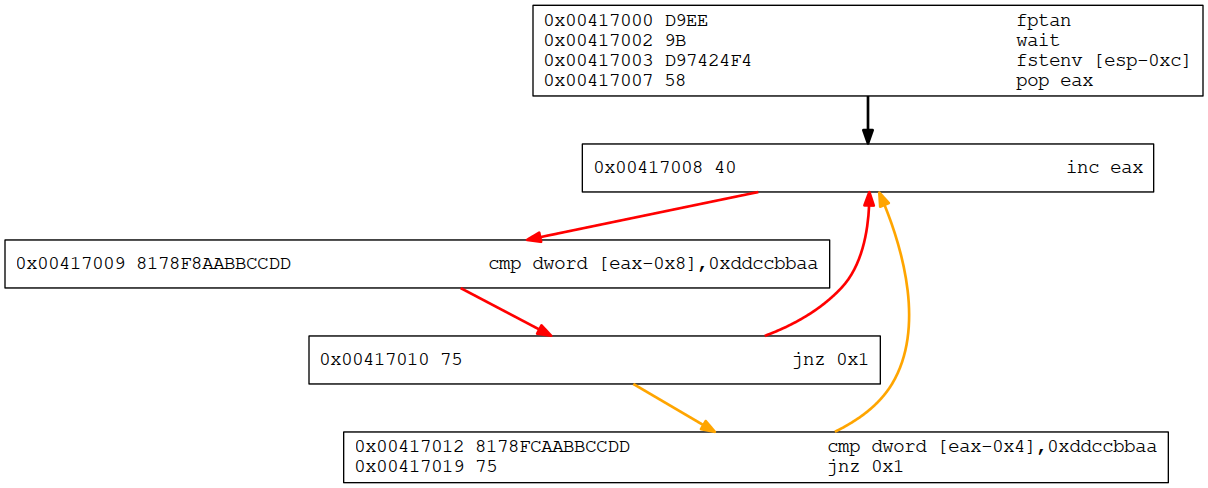
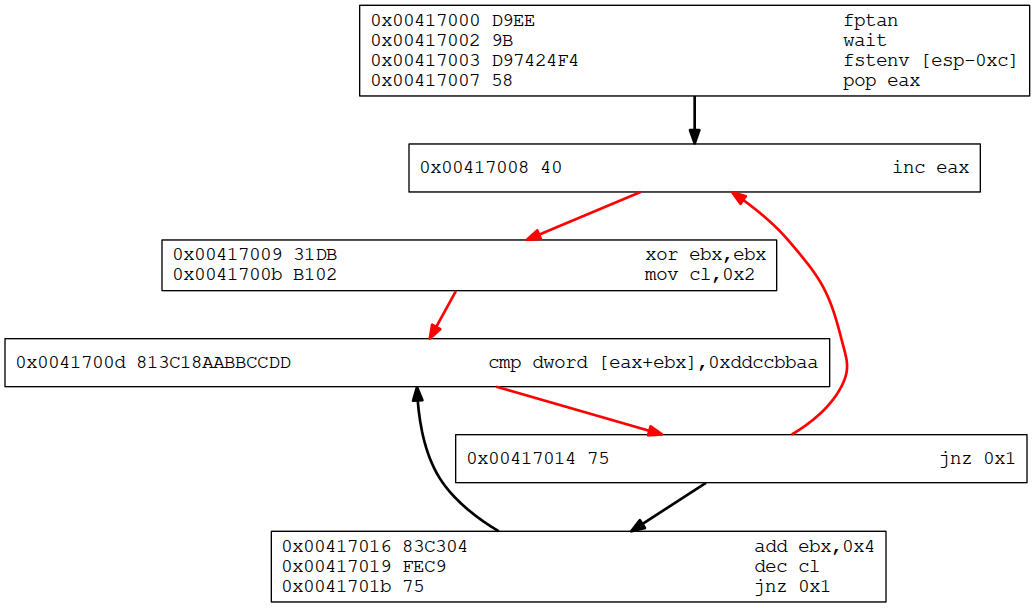
updated assignment 3

Changed region(s): [[0.0, 0.0, 1.0, 1.0]]

diff --git a/asm-src/Assignment_3/main-egg.c b/asm-src/Assignment_3/main-egg.c
@@ -7,7 +7,7 @@
 #include <string.h>
 
 unsigned char eggshell[] = \
-"\xd9\xee\x9b\xd9\x74\x24\xf4\x58\x40\x81\x78\xf8\xaa\xbb\xcc\xdd\x75\xf6\x81\x78\xfc\xaa\xbb\xcc\xdd\x75\xed\xff\xe0";
+"\xd9\xee\x9b\xd9\x74\x24\xf4\x58\x40\x31\xdb\xb1\x02\x81\x3c\x18\xaa\xbb\xcc\xdd\x75\xf2\x83\xc3\x04\xfe\xc9\x75\xf0\x8d\x40\x08\xff\xe0";
 
 unsigned char shellcode[] = \
 "\xaa\xbb\xcc\xdd" //egg
